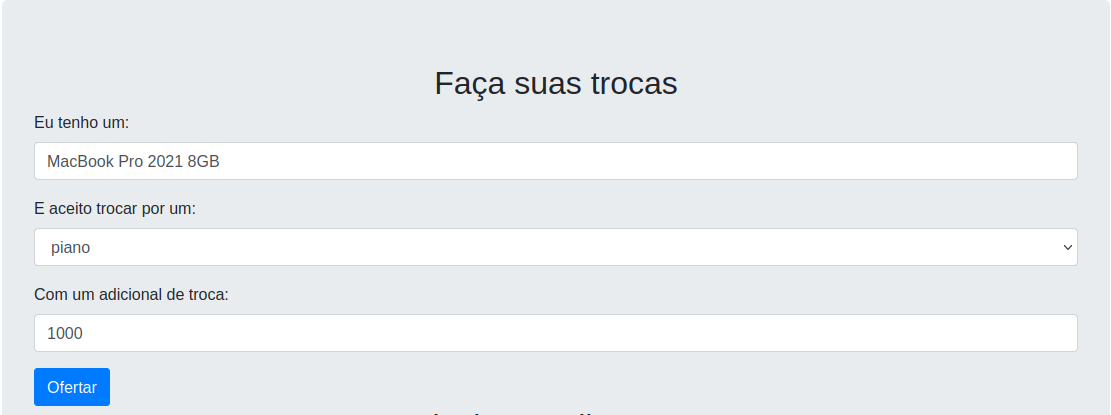
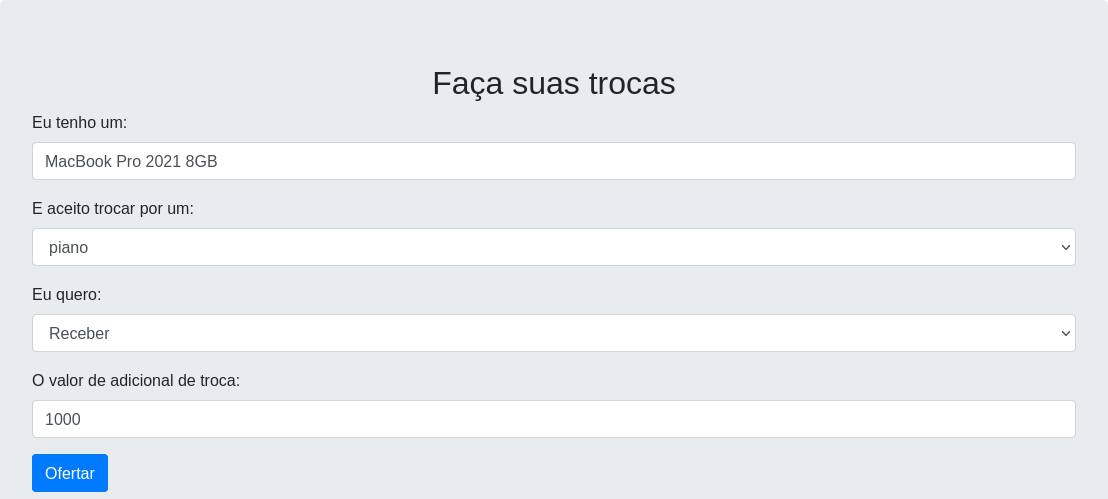
Updates README.md

diff --git a/README.md b/README.md
@@ -1,7 +1,7 @@
-# Grafos2_OLXijkstra
+# PD_OLXellman
 
-**Número da Lista**: 2<br>
-**Conteúdo da Disciplina**: Grafos 2<br>
+**Número da Lista**: 5<br>
+**Conteúdo da Disciplina**: Programação Dinâmica<br>
 
 ## Alunos
 |Matrícula | Aluno |
@@ -10,13 +10,18 @@
 | 14/0058371  |  Augusto Moreno Vilarins |
 
 ## Sobre 
-Esse projeto implementa um exemplo dado no livro Grokking Algorithms
-de uma rede de trocas de produtos entre pessoas.
 
-A pessoa diz o item que está interessada e o que tem a oferecer. Ela
-também pode colocar um item mais caro e pedir um adicional em dinheiro.
+
+Esse projeto é a evolução de outro trabalho feito pela dupla em [grafos2_OLXijkstra](https://github.com/projeto-de-algoritmos/grafos2_OLXijkstra/).
+
+No trabalho anterior, utilizamos Djikstra. A limitação era que o usuário poderia apenas pedir um valor extra na troca. Agora, ele pode pagar um
+valor extra na troca.
+
+Ou seja, ela pode dizer que tem uma camisa do Corinthians e quer trocar por um microfone HyperX Solocast, pagando um adicional de 200 dinheiros
+por exemplo.
 
 Cada item corresponde a um nó no array.
+
 Cada troca/negociação coresponde a uma aresta do array, contendo
 o item ofertado, o item desejado pela troca e o preço adicional de troca.
 
@@ -29,6 +34,7 @@ Fonte: [Grokking Algorithms](https://www.amazon.com/Grokking-Algorithms-J-Abelso
 ![](./docs/images/ss1.png)
 ![](./docs/images/ss2.png)
 ![](./docs/images/ss3.png)
+![](./docs/images/ss4.png)
 
 ## Instalação 
 **Linguagem**: Javascript<br>
